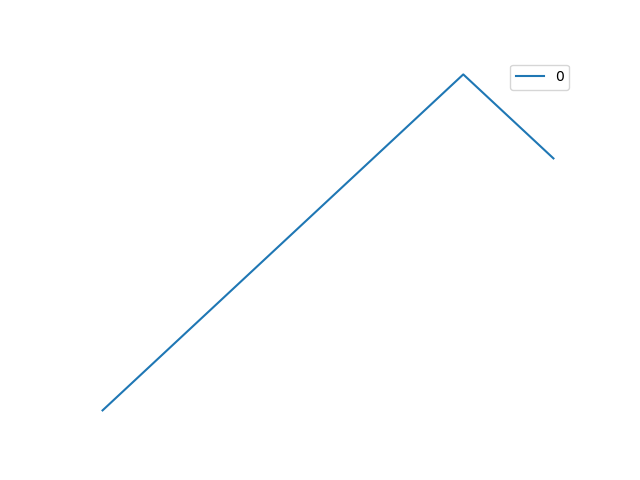
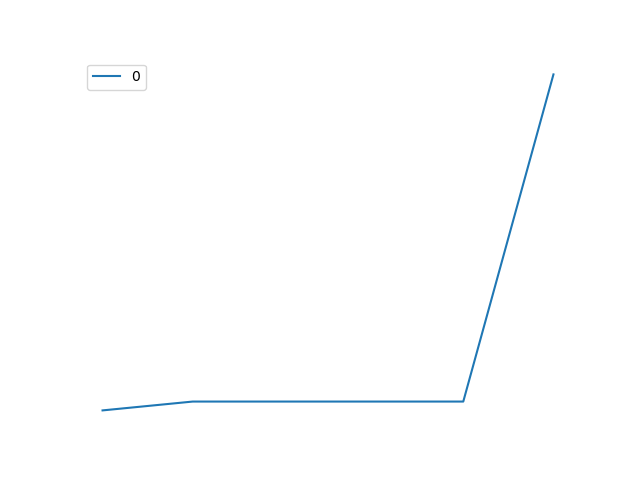
Camera + Serial

diff --git a/laika.py b/laika.py
@@ -1,0 +1,144 @@
+import sys
+from tracemalloc import start
+import pandas as pd
+import matplotlib.pyplot as plt 
+
+from PyQt5.QtCore import QSize, Qt, pyqtSignal, QRunnable, QThreadPool
+from PyQt5.QtWidgets import QApplication, QMainWindow, QPushButton
+from PyQt5.QtGui import QImage, QPixmap, QIcon
+from PyQt5 import QtWidgets, QtCore
+import threading
+import time
+import collections
+from matplotlib.lines import Line2D
+import matplotlib.animation as animation
+import numpy as np 
+#from serial import Serial
+
+import time
+import cv2
+from oscuro_grafica import *
+
+serialPort='COM20'
+baudRate=9600
+
+class Worker(QtCore.QObject):
+
+    finished = pyqtSignal()
+    datos_sensor = pyqtSignal(int)
+    camera = pyqtSignal(np.ndarray)
+
+    def getSerialData(self):
+
+        cap = cv2.VideoCapture(0)
+        print('camera')
+        if not cap.isOpened():
+            print("Cannot open camera")
+    
+        Siempre = True
+        i = 0
+        while Siempre:
+        #for j in range (100):
+            i = i+1
+            time.sleep(.5)
+            ret, frame = cap.read()
+            self.camera.emit(frame)
+            self.datos_sensor.emit(i)
+            print(i)
+
+        self.finished.emit()
+
+# Subclass QMainWindow to customize your application's main window
+class MainWindow(QMainWindow):
+    
+    def __init__(self):
+        super().__init__()
+        self.ui = Ui_Form() 
+        self.ui.setupUi(self)
+        self.setWindowTitle("Laika")
+        self.setWindowIcon(QIcon("./sources/layca_image.jpg"))
+
+        self.viewTemperature(1)
+        self.on()
+
+        #self.timer = QtCore.QTimer()
+        #self.timer.start(1000)
+        #self.timer.timeout.connect(self.viewCam)
+        #self.timer.timeout.connect(self.on)
+        #self.timer.timeout.connect(self.viewTemperature)
+    
+    def on(self):
+        # Step 2: Create a QThread object
+        self.thread = QtCore.QThread()
+        # Step 3: Create a worker object
+        self.worker = Worker()
+        # Step 4: Move worker to the thread
+        self.worker.moveToThread(self.thread)
+        # Step 5: Connect signals and slots
+        self.thread.started.connect(self.worker.getSerialData)
+        self.worker.finished.connect(self.thread.quit)
+        self.worker.finished.connect(self.worker.deleteLater)
+        self.worker.datos_sensor.connect(self.viewTemperature)
+        self.worker.camera.connect(self.viewCam)
+        self.thread.finished.connect(self.thread.deleteLater)
+        # Step 6: Start the thread
+        self.thread.start()
+
+    def viewTemperature(self,datos_sensor):
+        try:
+            print('Temperatura')
+            datos = (datos_sensor-1,datos_sensor,datos_sensor,datos_sensor,datos_sensor,datos_sensor*2)
+            index_datos = (0,1,2,3,4,5)
+
+            df=pd.DataFrame(datos, index_datos) 
+            ax = df.plot()
+            fig = ax.get_figure()
+            plt.tick_params(axis='x', labelsize=18)
+            plt.tick_params(axis='y', labelsize=18)
+
+            # set various colors
+            ax.spines['bottom'].set_color('white')
+            ax.spines['top'].set_color('white') 
+            ax.spines['right'].set_color('white')
+            ax.spines['left'].set_color('white')
+            ax.xaxis.label.set_color('white')
+            ax.yaxis.label.set_color('white')
+            ax.tick_params(colors='white', which='both')  # 'both' refers to minor and major axes
+
+            fig = ax.get_figure()
+                
+            fig.savefig('imagen.png',transparent=True)
+            plt.close(fig)
+        
+            pixmap = QPixmap('imagen.png')
+            #Actualizamos la imagen
+            self.ui.LIVE_14.setPixmap(pixmap)
+        except:
+            pass 
+
+    def viewCam(self,frame):
+        print('Camara')
+        try:
+            #ret, frame = cap.read()
+            image_detect = frame
+            #conversion a RGB
+            image = cv2.cvtColor(image_detect, cv2.COLOR_BGR2RGB)
+            #obtener datos de imagen
+            height, width, channel = image.shape
+            step= channel*width
+            #crear QImage para imagen
+            qImg=QImage(image.data,width,height,step,QImage.Format_RGB888)
+            #mostrar en el label
+            self.ui.LIVE_19.setPixmap(QPixmap.fromImage(qImg))
+        except:
+            pass
+        
+if __name__ == '__main__':
+    app = QApplication(sys.argv)
+    window = MainWindow()
+    window.show()
+    app.exec()
+
+
+
+        

diff --git a/qthread_example.py b/qthread_example.py
@@ -1,0 +1,64 @@
+import logging
+import random
+import sys
+import time
+
+from PyQt5.QtCore import QRunnable, Qt, QThreadPool
+from PyQt5.QtWidgets import (
+    QApplication,
+    QLabel,
+    QMainWindow,
+    QPushButton,
+    QVBoxLayout,
+    QWidget,
+)
+
+logging.basicConfig(format="%(message)s", level=logging.INFO)
+
+# 1. Subclass QRunnable
+class Runnable(QRunnable):
+    def __init__(self, n):
+        super().__init__()
+        self.n = n
+
+    def run(self):
+        # Your long-running task goes here ...
+        for i in range(5):
+            logging.info(f"Working in thread {self.n}, step {i + 1}/5")
+            time.sleep(random.randint(700, 2500) / 1000)
+
+class Window(QMainWindow):
+    def __init__(self, parent=None):
+        super().__init__(parent)
+        self.setupUi()
+
+    def setupUi(self):
+        self.setWindowTitle("QThreadPool + QRunnable")
+        self.resize(250, 150)
+        self.centralWidget = QWidget()
+        self.setCentralWidget(self.centralWidget)
+        # Create and connect widgets
+        self.label = QLabel("Hello, World!")
+        self.label.setAlignment(Qt.AlignHCenter | Qt.AlignVCenter)
+        countBtn = QPushButton("Click me!")
+        countBtn.clicked.connect(self.runTasks)
+        # Set the layout
+        layout = QVBoxLayout()
+        layout.addWidget(self.label)
+        layout.addWidget(countBtn)
+        self.centralWidget.setLayout(layout)
+
+    def runTasks(self):
+        threadCount = QThreadPool.globalInstance().maxThreadCount()
+        self.label.setText(f"Running {threadCount} Threads")
+        pool = QThreadPool.globalInstance()
+        for i in range(threadCount):
+            # 2. Instantiate the subclass of QRunnable
+            runnable = Runnable(i)
+            # 3. Call start()
+            pool.start(runnable)
+
+app = QApplication(sys.argv)
+window = Window()
+window.show()
+sys.exit(app.exec())
